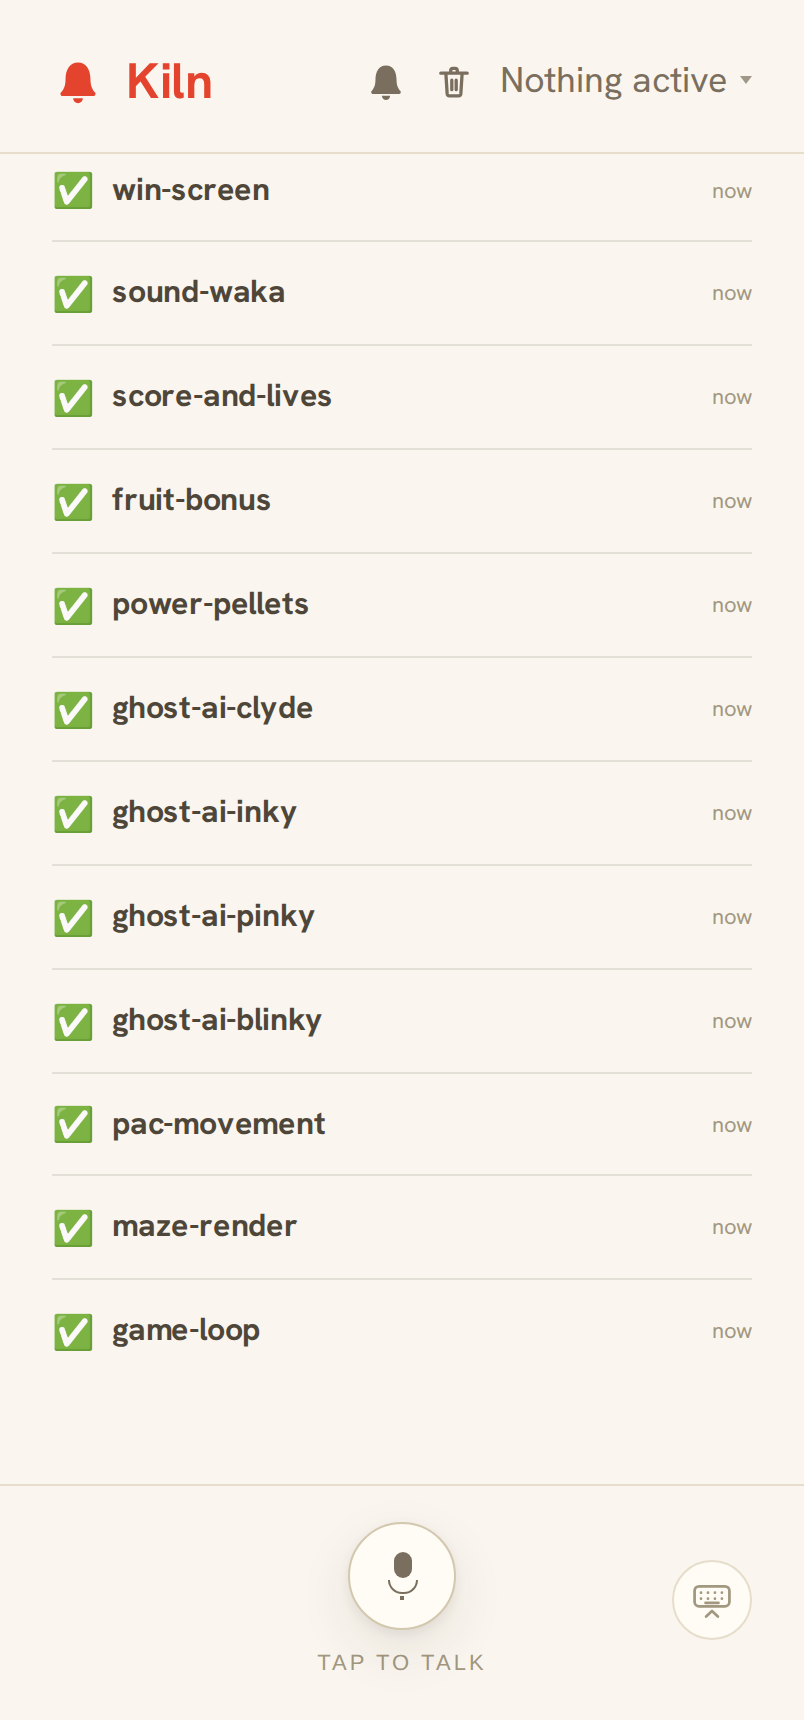
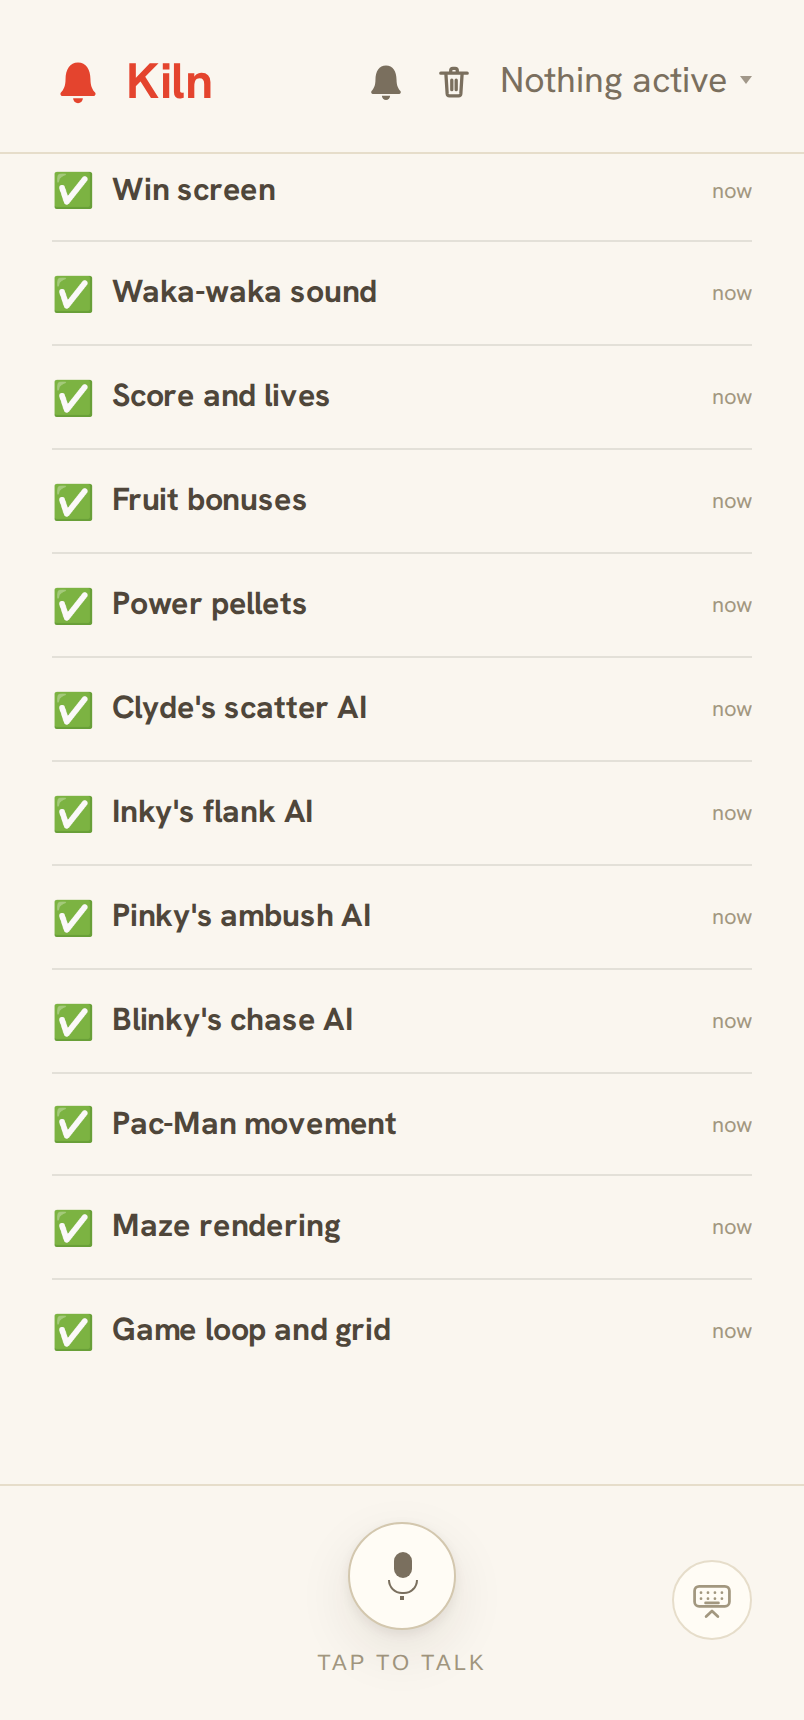
fix(landing): readable ticket names in the hero, Kiln copy on the left
The hero phone showed kebab-case ticket labels (game-loop, ghost-ai-blinky)
and the left-side copy had been rethemed around the Pac-Man project. Give the
seeded Pac-Man tasks full, human-readable titles (Game loop and grid, Blinky's
chase AI, …) and regenerate pacman-{light,dark}.png so the phone reflects them.
Revert the hero title/lead to describe what Kiln is; the Pac-Man theme now lives
only inside the phone mockup. Update the heading test to match.

diff --git a/frontend/src/landing/Landing2.tsx b/frontend/src/landing/Landing2.tsx
@@ -241,15 +241,13 @@ export function Landing2(): JSX.Element {
           <div className="kiln-hero__copy">
             <span className="kiln-eyebrow">Coding agent orchestrator</span>
             <h1 className="kiln-hero__title">
-              We shipped a whole Pac-Man{' '}
-              <span className="kiln-accent">with a team of agents.</span>
+              Orchestrate a team of coding agents{' '}
+              <span className="kiln-accent">from anywhere you are.</span>
             </h1>
             <p className="kiln-hero__lead">
-              Every task on this board — the maze, the four ghosts, the power pellets, the score, the
-              win screen — was built by an autonomous coding agent in the cloud. Here is the feed
-              once the last one landed: all green. Kiln let us orchestrate the whole team from a
-              phone — shape a ticket, unblock a ghost&rsquo;s chase logic, accept the work. Point it
-              at your project and watch the checkmarks stack up. Waka waka.
+              Kiln runs your autonomous coding agents in the cloud and puts the whole operation in
+              your pocket. Steer the work from your phone, your desk, or your voice — on the train,
+              between meetings, or from the couch. Your team never has to wait for you to sit down.
             </p>
             <div className="kiln-hero__actions">
               <BetaSignupForm cta="Join the beta" />

diff --git a/frontend/src/landing/Landing2.test.tsx b/frontend/src/landing/Landing2.test.tsx
@@ -21,7 +21,7 @@ describe('Landing2', () => {
     renderLanding();
 
     expect(screen.getByRole('heading', { level: 1 })).toHaveTextContent(
-      /shipped a whole Pac-Man with a team of agents/i,
+      /Orchestrate a team of coding agents from anywhere you are/i,
     );
 
     // The hero embeds the signup form inline; the closing banner is gone, so its